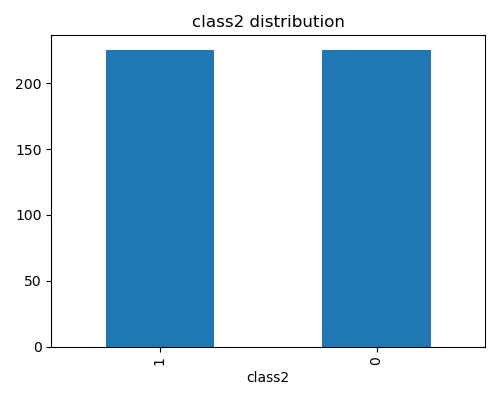
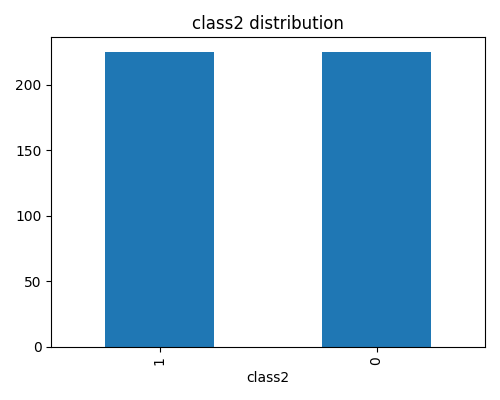
separate plots to analysis.py

diff --git a/main.py b/main.py
@@ -1,12 +1,15 @@
-from matplotlib import pyplot as plt
 import numpy as np
 import pandas as pd
 from sklearn.ensemble import RandomForestClassifier
-from sklearn.model_selection import GridSearchCV, cross_validate
-import seaborn as sns
-from sklearn.metrics import classification_report, confusion_matrix, ConfusionMatrixDisplay
+from sklearn.model_selection import GridSearchCV
 
 from kaggle_scoring_metric import score
+from analysis import (
+    plot_training_data,
+    plot_feature_importances,
+    plot_classification_report,
+)
+
 
 train_path = "data/train.csv"
 test_path = "data/test.csv"
@@ -18,53 +21,13 @@ test = pd.read_csv(test_path).set_index("id")
 print("Loaded train, test and sample submission")
 print(f"Train shape: {train.shape}, Test shape: {test.shape}")
 
-# EDA 
-
-print("\nclass4 distribution:")
-print(train["class4"].value_counts())
-
-plt.figure(figsize=(5, 4))
-train["class4"].value_counts().plot(kind="bar")
-plt.title("class4 distribution")
-plt.tight_layout()  
-plt.savefig("class4_distribution.png")
-plt.close()
-
-train["class2"] = (train["class4"] != "nonevent").astype(int)
-
-print("\nclass2 distribution (1=event, 0=nonevent):")
-print(train["class2"].value_counts())
-
-plt.figure(figsize=(5, 4))
-train["class2"].value_counts().plot(kind="bar")
-plt.title("class2 distribution")
-plt.tight_layout()
-plt.savefig("class2_distribution.png")
-plt.close()
-
-numeric_cols = train.select_dtypes(include=[np.number]).columns
-if len(numeric_cols) > 0:
-    cols_for_corr = (
-        np.random.choice(numeric_cols, size=min(30, len(numeric_cols)), replace=False)
-        if len(numeric_cols) > 30 else numeric_cols
-    )
-    plt.figure(figsize=(10, 8))
-    sns.heatmap(train[cols_for_corr].corr(), cmap="coolwarm", center=0)
-    plt.title("Correlation heatmap (subset of numeric features)")
-    plt.tight_layout()
-    plt.savefig("correlation_heatmap.png")
-    plt.close()
 
 # date is not present in the test data and is only included for "solely for
 # exploratory data analysis"
 # partlybad also seems useless
-train_x = train.drop(columns=["class4", "class2", "date", "partlybad"])
+train_x = train.drop(columns=["class4", "date", "partlybad"])
 test_x = test.drop(columns=["date", "partlybad"])
 train_y = train["class4"]
-
-# model = RandomForestClassifier(n_estimators=300, n_jobs=-1, max_depth=8).fit(
-#     train_x, train_y
-# )
 
 
 def predict(model: RandomForestClassifier, X: pd.DataFrame):
@@ -93,43 +56,22 @@ param_grid = [
 gs = GridSearchCV(RandomForestClassifier(), param_grid, verbose=2, n_jobs=-1).fit(
     train_x, train_y
 )
-print("\nBest params:", gs.best_params_)
-print("Best CV score (GridSearch):", gs.best_score_)
 
 model = RandomForestClassifier(**gs.best_params_).fit(train_x, train_y)
-features_importances = sorted(
-    zip(model.feature_importances_, model.feature_names_in_), key=lambda x: x[0]
-)
-print("importances:", features_importances)
-
-top = features_importances[-20:]
-imp_vals = [v for v, _ in top]
-imp_names = [n for _, n in top]
-
-plt.figure(figsize=(7, 6))
-sns.barplot(x=imp_vals, y=imp_names)
-plt.title("Top 20 feature importances")
-plt.tight_layout()
-plt.savefig("feature_importances_top20.png")
-plt.close()
 
 train_pred = predict(model, train_x)
-print("\nTrain classification report (class4):")
-print(classification_report(train_y, train_pred["class4"]))
-
-cm = confusion_matrix(train_y, train_pred["class4"], labels=model.classes_)
-disp = ConfusionMatrixDisplay(confusion_matrix=cm, display_labels=model.classes_)
-disp.plot(xticks_rotation=45)
-plt.title("Train confusion matrix (class4)")
-plt.tight_layout()
-plt.savefig("confusion_matrix_train.png")
-plt.close()
-
-# score on training set
 train_score = score(train[["class4"]].reset_index(), train_pred.reset_index(), "id")
 print("\nKaggle-style score on train:", train_score)
 
 test_prediction = predict(model, test_x)
 test_prediction.to_csv("submission.csv", index_label="id")
 print("\nSaved submission.csv (id, class4, p)")
-print("Saved figures: class4_distribution.png, class2_distribution.png, correlation_heatmap.png, feature_importances_top20.png, confusion_matrix_train.png")
+print(
+    "Saved figures: class4_distribution.png, class2_distribution.png, correlation_heatmap.png, feature_importances_top20.png, confusion_matrix_train.png"
+)
+
+
+# plots
+plot_training_data(train)
+plot_classification_report(model, train_y, train_pred)
+plot_feature_importances(model)

diff --git a/analysis.py b/analysis.py
@@ -1,0 +1,85 @@
+import numpy as np
+import pandas as pd
+import matplotlib.pyplot as plt
+import seaborn as sns
+from sklearn.ensemble import RandomForestClassifier
+from sklearn.metrics import (
+    ConfusionMatrixDisplay,
+    classification_report,
+    confusion_matrix,
+)
+
+
+def plot_training_data(train: pd.DataFrame):
+    print("\nclass4 distribution:")
+    print(train["class4"].value_counts())
+
+    plt.figure(figsize=(5, 4))
+    train["class4"].value_counts().plot(kind="bar")
+    plt.title("class4 distribution")
+    plt.tight_layout()
+    plt.savefig("class4_distribution.png")
+    plt.close()
+
+    train["class2"] = (train["class4"] != "nonevent").astype(int)
+
+    print("\nclass2 distribution (1=event, 0=nonevent):")
+    print(train["class2"].value_counts())
+
+    plt.figure(figsize=(5, 4))
+    train["class2"].value_counts().plot(kind="bar")
+    plt.title("class2 distribution")
+    plt.tight_layout()
+    plt.savefig("class2_distribution.png")
+    plt.close()
+
+    numeric_cols = train.select_dtypes(include=[np.number]).columns
+
+    if len(numeric_cols) > 0:
+        cols_for_corr = (
+            np.random.choice(
+                numeric_cols, size=min(30, len(numeric_cols)), replace=False
+            )
+            if len(numeric_cols) > 30
+            else numeric_cols
+        )
+        plt.figure(figsize=(10, 8))
+        sns.heatmap(train[cols_for_corr].corr(), cmap="coolwarm", center=0)
+        plt.title("Correlation heatmap (subset of numeric features)")
+        plt.tight_layout()
+        plt.savefig("correlation_heatmap.png")
+        plt.close()
+
+
+def plot_feature_importances(model: RandomForestClassifier):
+    features_importances = sorted(
+        zip(model.feature_importances_, model.feature_names_in_), key=lambda x: x[0]
+    )
+
+    print("importances:", features_importances)
+
+    top = features_importances[-20:]
+    imp_vals = [v for v, _ in top]
+    imp_names = [n for _, n in top]
+
+    plt.figure(figsize=(7, 6))
+    sns.barplot(x=imp_vals, y=imp_names)
+    plt.title("Top 20 feature importances")
+    plt.tight_layout()
+    plt.savefig("feature_importances_top20.png")
+    plt.close()
+
+
+def plot_classification_report(model, train_y, train_pred):
+    print("\nTrain classification report (class4):")
+    print(classification_report(train_y, train_pred["class4"]))
+
+    cm = confusion_matrix(train_y, train_pred["class4"], labels=model.classes_)
+    disp = ConfusionMatrixDisplay(confusion_matrix=cm, display_labels=model.classes_)
+    disp.plot(xticks_rotation=45)
+    plt.title("Train confusion matrix (class4)")
+    plt.tight_layout()
+    plt.savefig("confusion_matrix_train.png")
+    plt.close()
+
+    # score on training set
